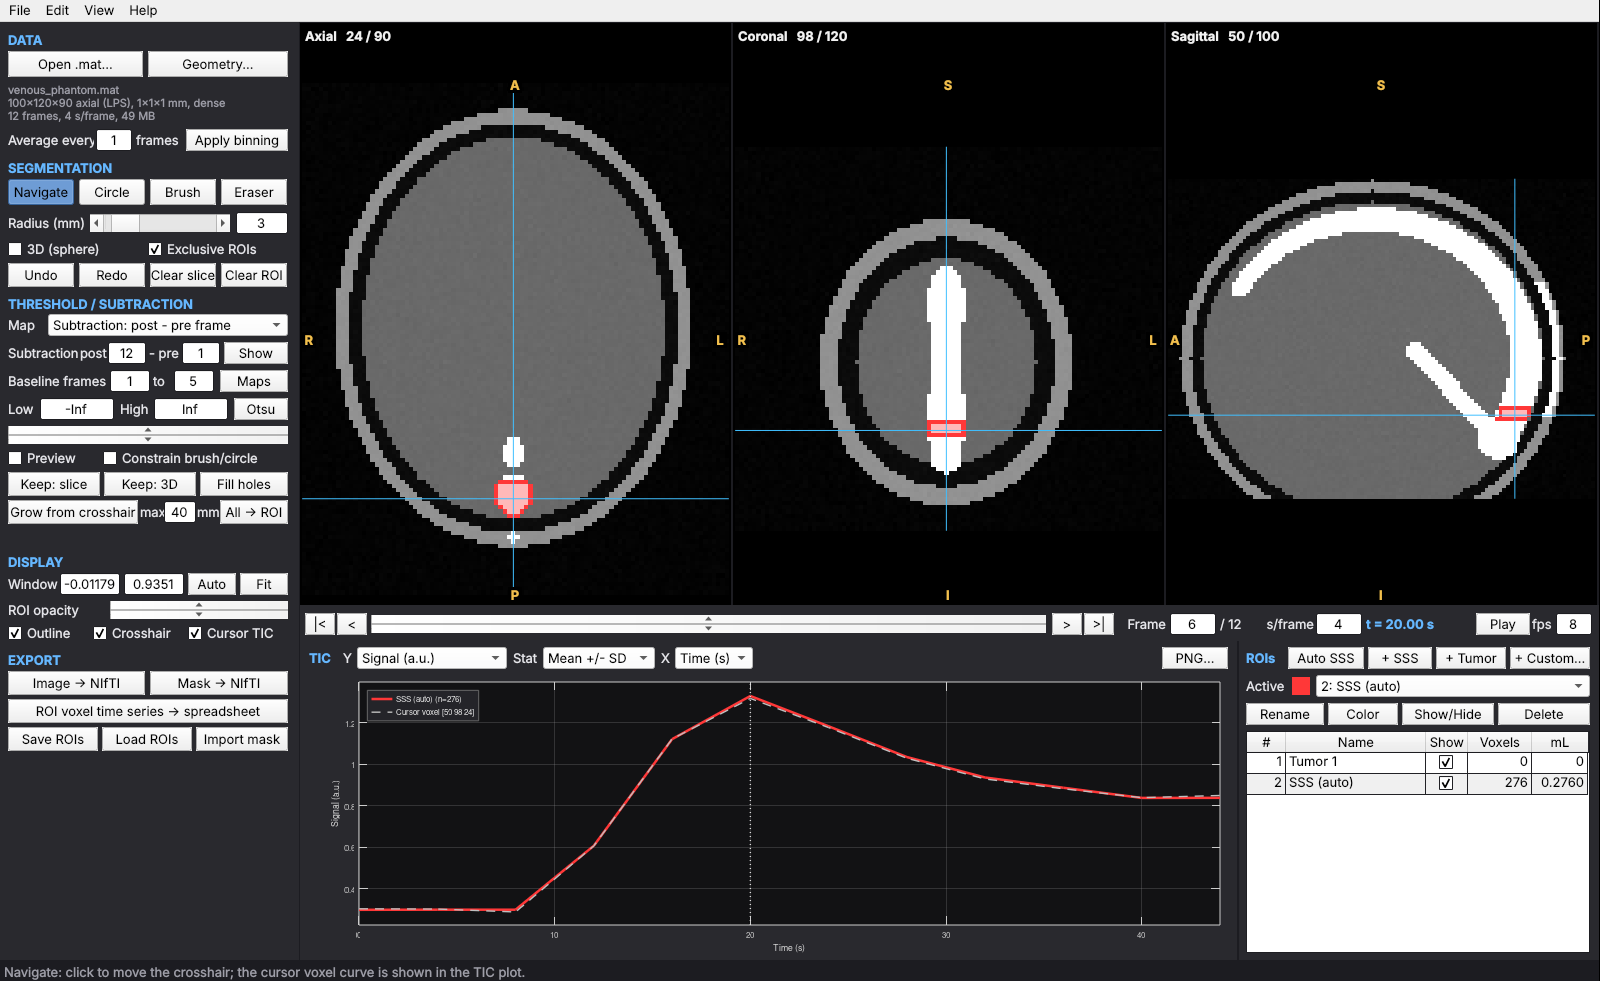
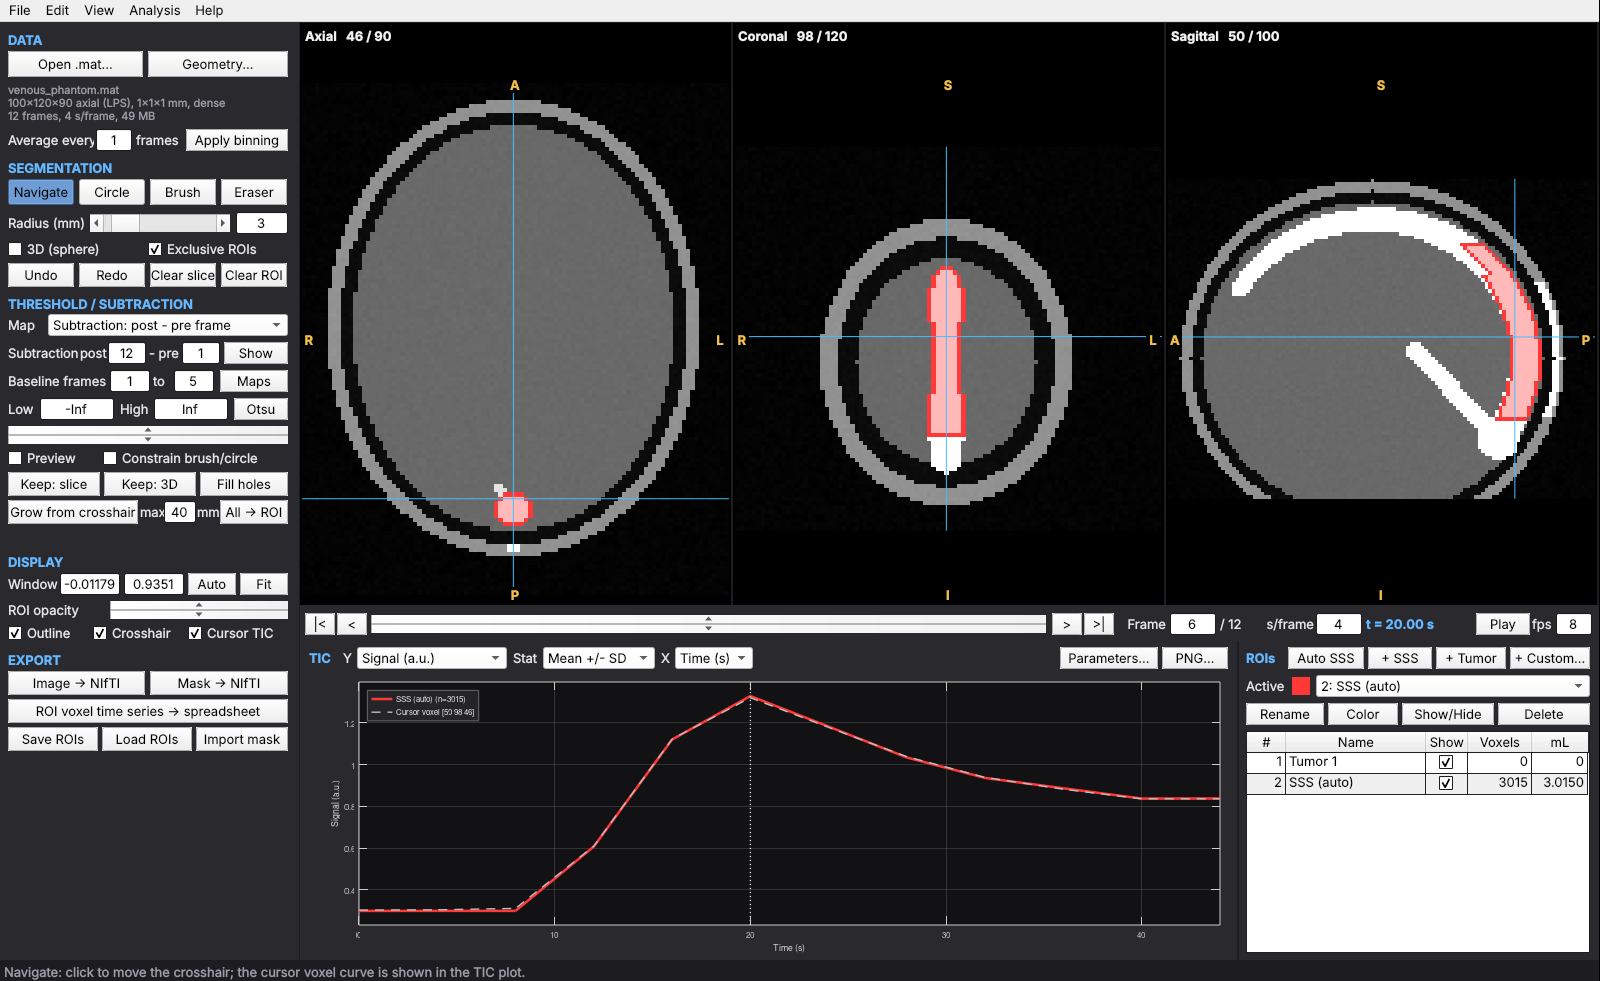
Auto SSS: extend the ROI superiorly along the sinus toward the vertex
- ROI now runs from 2 mm below the thickest posterior SSS slice above the
  torcula up to 50 mm above it (options InferiorMM, SuperiorMM), following
  the sinus slice by slice
- Stops early where the cross-section is lost, too wide, not continuous with
  the slice below, or where the sinus turns forward over the vertex (MaxSlope)
- SlabMM still gives the former 5 mm slab; info reports ThickestSlice,
  ExtentMM and StopReason
- Tests, README, help text and Auto SSS screenshot updated

Claude-Session: https://claude.ai/code/session_014mboSvqdSkQJg9ohrRRJS1

diff --git a/graspilot_detect_sss.m b/graspilot_detect_sss.m
@@ -4,9 +4,10 @@ function [lin, info] = graspilot_detect_sss(D, varargin)
 %   [lin, info] = graspilot_detect_sss(D)
 %   [lin, info] = graspilot_detect_sss(D, 'Name', Value, ...)
 %
-%   Returns canonical linear indices of an ROI in the thickest part of the
-%   posterior superior sagittal sinus (SSS) above the torcula (confluence of
-%   sinuses), excluding the transverse sinuses and the straight sinus.
+%   Returns canonical linear indices of an ROI in the posterior superior
+%   sagittal sinus (SSS): from its thickest part above the torcula
+%   (confluence of sinuses) up along the sinus toward the vertex, excluding
+%   the transverse sinuses and the straight sinus.
 %   Orientation must be correct (canonical axes R->L, A->P, I->S; see
 %   GRASPilotData.setAxisCodes): the method relies on "posterior", "midline"
 %   and "superior".
@@ -28,30 +29,47 @@ function [lin, info] = graspilot_detect_sss(D, varargin)
 %   5. candidate slices GapMM .. GapMM+SearchMM above the torcula where
 %      the structure is no wider than MaxWidthMM (midline SSS only);
 %      thickest = largest posterior cross-section (3-slice average)
-%   6. ROI = SlabMM of slices centred on the thickest slice; in each slice
-%      the cross-section voxels enhancing >= Core x their maximum
-%      (excludes partial-volume edge voxels)
+%   6. ROI slices: from InferiorMM below the thickest slice (not closer to
+%      the torcula than GapMM) up to SuperiorMM above it, following the
+%      sinus slice by slice. The extension stops early where the sinus
+%      cross-section is missing or wider than MaxWidthMM, no longer overlaps
+%      the cross-section of the slice below, or where the sinus turns
+%      forward over the vertex (its posterior edge moving anteriorly by more
+%      than MaxSlope mm per mm of height over >= 4 mm: the axial cut
+%      becomes oblique and partial-volumed)
+%   7. in each ROI slice the cross-section voxels enhancing >= Core x their
+%      maximum (excludes partial-volume edge voxels)
 %
 %   Options (defaults): 'BaseFrames' (1:min(5,T)), 'MidlineMM' (10),
 %   'LateralMM' (50), 'RelThr' (0.35), 'PosteriorMM' (12),
 %   'TorculaWidthMM' (30), 'MaxWidthMM' (20), 'GapMM' (5), 'SearchMM' (35),
-%   'SlabMM' (5), 'Core' (0.5), 'Seeds' (6), 'Progress' ([])
+%   'InferiorMM' (2), 'SuperiorMM' (50), 'MaxSlope' (1), 'Core' (0.5),
+%   'Seeds' (6), 'Progress' ([]). 'SlabMM' (empty) gives the former ROI:
+%   SlabMM of slices centred on the thickest slice (sets InferiorMM and
+%   SuperiorMM to SlabMM/2).
 %
-%   info: Seed, TorculaSlice (NaN if not found), Slices, NVoxels, VolumeML,
-%   Centroid [i j k], MeanPeakEnh, Width and Area per slice, Message.
+%   info: Seed, TorculaSlice (NaN if not found), ThickestSlice, Slices,
+%   ExtentMM, StopReason, NVoxels, VolumeML, Centroid [i j k], MeanPeakEnh,
+%   Width and Area per slice, Message.
 
 p = struct('BaseFrames', [], 'MidlineMM', 10, 'LateralMM', 50, 'RelThr', 0.35, ...
     'PosteriorMM', 12, 'TorculaWidthMM', 30, 'MaxWidthMM', 20, 'GapMM', 5, 'SearchMM', 35, ...
-    'SlabMM', 5, 'Core', 0.5, 'Seeds', 6, 'Progress', []);
+    'InferiorMM', 2, 'SuperiorMM', 50, 'MaxSlope', 1, 'SlabMM', [], 'Core', 0.5, 'Seeds', 6, ...
+    'Progress', []);
 for i = 1:2:numel(varargin)
     fn = fieldnames(p);
     m = find(strcmpi(fn, varargin{i}), 1);
     if isempty(m), error('graspilot_detect_sss:opt', 'Unknown option %s.', varargin{i}); end
     p.(fn{m}) = varargin{i + 1};
 end
+if ~isempty(p.SlabMM)
+    p.InferiorMM = p.SlabMM / 2;
+    p.SuperiorMM = p.SlabMM / 2;
+end
 lin = zeros(0, 1);
-info = struct('Seed', [], 'TorculaSlice', NaN, 'Slices', [], 'NVoxels', 0, 'VolumeML', 0, ...
-    'Centroid', [], 'MeanPeakEnh', NaN, 'Width', [], 'Area', [], 'Message', '');
+info = struct('Seed', [], 'TorculaSlice', NaN, 'ThickestSlice', NaN, 'Slices', [], 'ExtentMM', 0, ...
+    'StopReason', '', 'NVoxels', 0, 'VolumeML', 0, 'Centroid', [], 'MeanPeakEnh', NaN, 'Width', [], ...
+    'Area', [], 'Message', '');
 
 n = D.canonSize();
 vox = D.canonVox();
@@ -109,6 +127,7 @@ info.Seed = bestSeed;
 
 % 3. per-slice width and posterior cross-section
 W = zeros(1, n(3)); A = zeros(1, n(3));
+Wb = zeros(1, n(3)); Yp = NaN(1, n(3));      % cross-section width (mm), posterior edge (voxel)
 blob = cell(1, n(3));
 pr = round(p.PosteriorMM / vox(2));
 for k = 1:n(3)
@@ -135,6 +154,8 @@ for k = 1:n(3)
     end
     blob{k} = find(R2);
     A(k) = numel(blob{k}) * vox(1) * vox(2);
+    Wb(k) = wd * vox(1);
+    Yp(k) = yp;
 end
 info.Width = W;
 info.Area = A;
@@ -165,11 +186,41 @@ As(ok) = A(ok);
 Asm = conv(As, ones(1, 3) / 3, 'same');
 [~, i] = max(Asm(ok));
 kb = ok(i);
-h = max(0, round((p.SlabMM / vox(3) - 1) / 2));
-ks = ok(ok >= kb - h & ok <= kb + h);
 
-% 6. core voxels of the cross-section in those slices
+info.ThickestSlice = kb;
+kl = max(k0, kb - round(p.InferiorMM / vox(3)));
+ks = kl:kb;
+ks = ks(ismember(ks, ok));
+
+% 6. follow the sinus superiorly toward the vertex
 np = n(1) * n(2);
+kw = kb + floor(p.SuperiorMM / vox(3) + 1e-9);   % wanted top slice
+kt = min(n(3), kw);
+span = max(3, ceil(4 / vox(3)));                 % slices over which the forward turn is measured
+why = '';
+for k = kb + 1:kt
+    if A(k) == 0
+        why = 'sinus not found higher up'; break
+    end
+    if Wb(k) > p.MaxWidthMM
+        why = 'sinus cross-section wider than MaxWidthMM'; break
+    end
+    if ~overlaps(blob{k}, blob{k - 1}, [n(1) n(2)])
+        why = 'cross-section not continuous with the slice below'; break
+    end
+    j = k - span;
+    if j >= ks(1) && (Yp(j) - Yp(k)) * vox(2) / (span * vox(3)) > p.MaxSlope
+        why = 'sinus turning forward over the vertex'; break
+    end
+    ks(end + 1) = k; %#ok<AGROW>
+end
+if isempty(why) && kw > kb
+    if kt < kw, why = 'top of the imaged volume';
+    else, why = sprintf('%g mm above the thickest slice (SuperiorMM)', p.SuperiorMM); end
+end
+info.StopReason = why;
+
+% 7. core voxels of the cross-section in those slices
 for k = ks
     l2 = blob{k};
     e = E(l2 + (k - 1) * np);
@@ -183,12 +234,24 @@ for k = ks
 end
 [ii, jj, kk] = ind2sub(n, lin);
 info.Slices = ks;
+info.ExtentMM = numel(ks) * vox(3);
 info.NVoxels = numel(lin);
 info.VolumeML = numel(lin) * prod(vox) / 1000;
 info.Centroid = [mean(ii) mean(jj) mean(kk)];
 info.MeanPeakEnh = mean(E(lin));
-info.Message = sprintf(['SSS ROI: %d voxels (%.3f mL) on slices %d-%d, thickest at slice %d ' ...
-    '(%.0f mm2). %s'], numel(lin), info.VolumeML, min(ks), max(ks), kb, A(kb), tmsg);
+info.Message = sprintf(['SSS ROI: %d voxels (%.3f mL) on slices %d-%d (%.0f mm), from the thickest ' ...
+    'slice %d (%.0f mm2) up toward the vertex. %s'], numel(lin), info.VolumeML, min(ks), max(ks), ...
+    info.ExtentMM, kb, A(kb), tmsg);
+if ~isempty(why), info.Message = sprintf('%s Upper end: %s.', info.Message, why); end
+end
+
+function tf = overlaps(a, b, n2)
+% 2D cross-sections (linear indices in a slice) touch or overlap
+if isempty(a) || isempty(b), tf = false; return; end
+M = false(n2);
+M(b) = true;
+M = M | circshift(M, [1 0]) | circshift(M, [-1 0]) | circshift(M, [0 1]) | circshift(M, [0 -1]);
+tf = any(M(a));
 end
 
 function th = otsu(vals)

diff --git a/GRASPilot.m b/GRASPilot.m
@@ -1405,8 +1405,8 @@ classdef GRASPilot < handle
         end
 
         function r = autoSSS(obj)
-            % detect the posterior superior sagittal sinus above the torcula
-            % and put it in the ROI "SSS (auto)" (replaced on each run)
+            % detect the posterior superior sagittal sinus from above the torcula
+            % toward the vertex and put it in the ROI "SSS (auto)" (replaced on each run)
             r = 0;
             if ~obj.requireData(), return; end
             wb = obj.wbOpen('Detecting the superior sagittal sinus...');
@@ -2036,8 +2036,8 @@ classdef GRASPilot < handle
             P = obj.H.roiPanel; C = obj.Col;
             obj.ctl(P, 8, 7, 40, 18, 'text', 'ROIs', 'FontWeight', 'bold', 'ForegroundColor', C.accent);
             obj.ctl(P, 50, 5, 76, 22, 'pushbutton', 'Auto SSS', ...
-                'TooltipString', ['Detect the posterior superior sagittal sinus above the torcula ' ...
-                '(excludes transverse and straight sinuses) and place the ROI "SSS (auto)"'], ...
+                'TooltipString', ['Detect the posterior superior sagittal sinus from just above the torcula ' ...
+                'up toward the vertex (excludes transverse and straight sinuses) and place the ROI "SSS (auto)"'], ...
                 'Callback', @(s, e) obj.autoSSS());
             obj.ctl(P, 130, 5, 64, 22, 'pushbutton', '+ SSS', ...
                 'TooltipString', 'Add an empty superior sagittal sinus control ROI to draw by hand', ...
@@ -3607,7 +3607,8 @@ classdef GRASPilot < handle
                 '  presets (LPS = scanner order of the GRASP recon), Rotate 90 / Flip buttons'
                 ''
                 'SSS CONTROL ROI'
-                '  Auto SSS: posterior superior sagittal sinus just above the torcula'
+                '  Auto SSS: posterior superior sagittal sinus from just above the torcula'
+                '  up toward the vertex (up to 50 mm above its thickest part)'
                 '  (transverse and straight sinuses excluded); check and edit as needed'
                 ''
                 'SEMI-QUANTITATIVE PARAMETERS (Analysis menu or Parameters... button)'

diff --git a/tests/graspilot_selftest.m b/tests/graspilot_selftest.m
@@ -146,9 +146,21 @@ M = false(np); M(linS) = true;
 [~, ~, kk] = ind2sub(np, linS);
 ok = numel(linS) > 50 && all(tr.SSS(linS)) && ~any(M(:) & (tr.TS(:) | tr.SS(:) | tr.SV(:) | tr.AR(:)));
 nfail = nfail + check('SSS ROI only in SSS (not TS/straight/scalp/artery)', ok, numel(linS));
-ok = abs(infoS.TorculaSlice - tr.TorculaZ) <= 2 && min(kk) >= infoS.TorculaSlice + 5 && max(kk) <= tr.TorculaZ + 30 ...
-    && abs(infoS.Centroid(1) - 50) < 2;
-nfail = nfail + check('SSS ROI just above torcula, midline', ok, infoS.TorculaSlice);
+ok = abs(infoS.TorculaSlice - tr.TorculaZ) <= 2 && min(kk) >= infoS.TorculaSlice + 5 && min(kk) <= tr.TorculaZ + 10 ...
+    && abs(infoS.Centroid(1) - 50) < 2 && isequal(unique(kk)', min(kk):max(kk));
+nfail = nfail + check('SSS ROI starts just above torcula, midline, contiguous', ok, infoS.TorculaSlice);
+% extends up the posterior SSS toward the vertex: 50 mm above the thickest slice, or until the
+% sinus turns forward (phantom SSS: posterior edge moves forward > 1 mm per mm above z ~ 70)
+ok = max(kk) >= infoS.ThickestSlice + 40 && max(kk) <= 75 && numel(linS) > 2000 && ...
+    ~isempty(strfind(infoS.StopReason, 'forward'));
+nfail = nfail + check('SSS ROI extends superiorly toward the vertex', ok, max(kk));
+[linV, infoV] = graspilot_detect_sss(Dp, 'SuperiorMM', 20);
+[~, ~, kv] = ind2sub(np, linV);
+[linB, infoB] = graspilot_detect_sss(Dp, 'SlabMM', 5);
+[~, ~, kB] = ind2sub(np, linB);
+ok = max(kv) == infoV.ThickestSlice + 20 && all(tr.SSS(linV)) && max(kB) - min(kB) <= 4 && ...
+    all(ismember(linB, linS)) && ~isempty(strfind(infoV.StopReason, 'SuperiorMM'));
+nfail = nfail + check('SSS ROI extent options (SuperiorMM, SlabMM)', ok, max(kv));
 [Dp2, tr2] = graspilot_sss_phantom(25);
 [lin2, info2] = graspilot_detect_sss(Dp2);
 ok = numel(lin2) > 50 && all(tr2.SSS(lin2)) && isnan(info2.TorculaSlice);

diff --git a/README.md b/README.md
@@ -11,7 +11,7 @@ stored as MATLAB `.mat` files (deep learning subspace recon: `vk_all` + `basis_a
 
 ![Subtraction map (last - first frame) with the enhancing rim grown from the crosshair](docs/screenshot_subtraction.png)
 
-![Auto SSS: ROI in the posterior superior sagittal sinus just above the torcula](docs/screenshot_sss.png)
+![Auto SSS: ROI along the posterior superior sagittal sinus above the torcula](docs/screenshot_sss.png)
 
 ![Wash-in slope normalized to the SSS as a colour map](docs/screenshot_params.png)
 
@@ -21,8 +21,9 @@ stored as MATLAB `.mat` files (deep learning subspace recon: `vk_all` + `basis_a
 Top: frame view after 2x temporal binning with the SSS control and the tumor ROI. Middle:
 subtraction map (frame 60 - frame 1), threshold preview in green and the enhancing rim grown
 from the crosshair (necrotic core excluded). Bottom: Auto SSS on a venous phantom - the ROI
-(red) sits in the posterior SSS just above the torcula; the straight sinus (anterior to it on
-the axial view), the transverse sinuses and a scalp vein are excluded. Last two: peak
+(red) follows the posterior SSS from just above the torcula toward the vertex (sagittal
+view); the straight sinus (anterior to it on the axial view), the transverse sinuses and a
+scalp vein are excluded. Last two: peak
 wash-in slope / SSS as a jet colour map with the ROI outlines (analysis limited to the first
 100 s, orange line on the curves), and the Parameters window with the tumor ROI statistics.*
 
@@ -131,8 +132,9 @@ Ctrl+Z / Ctrl+Y = undo / redo. Help > Mouse and keyboard lists everything.
 ## Automatic superior sagittal sinus ROI (Auto SSS)
 
 **Auto SSS** (ROI panel, or Edit > Detect superior sagittal sinus) places the control ROI
-`SSS (auto)` in the thickest part of the posterior superior sagittal sinus just above the
-torcula, excluding the transverse sinuses and the straight sinus. Requires correct
+`SSS (auto)` in the posterior superior sagittal sinus, from its thickest part just above the
+torcula up along the sinus toward the vertex, excluding the transverse sinuses and the
+straight sinus. Requires correct
 orientation (LPS etc., see Orientation).
 
 1. Peak enhancement map (maximum over time minus baseline) and a head mask (Otsu on the
@@ -147,15 +149,20 @@ orientation (LPS etc., see Orientation).
    (midline SSS only), the SSS cross-section is its most posterior part against the
    occipital inner table, no deeper front-to-back than it is wide (excludes the straight
    sinus, which joins from anterior). The thickest cross-section (3-slice average) is chosen.
-5. ROI: 5 mm of slices centred there; in each, the cross-section voxels enhancing >= 50% of
-   their maximum (partial-volume edges excluded).
+5. ROI: from 2 mm below the thickest slice up to 50 mm above it, following the sinus slice
+   by slice. It stops earlier where the sinus cross-section is lost, wider than 20 mm or
+   not continuous with the slice below, or where the sinus turns forward over the vertex
+   (posterior edge moving forward by more than 1 mm per mm of height: axial cuts become
+   oblique and partial-volumed). In each slice, the cross-section voxels enhancing >= 50%
+   of their maximum (partial-volume edges excluded).
 
 The crosshair moves to the ROI and the status bar reports the torcula slice, ROI slices,
-voxels and volume. Running it again replaces `SSS (auto)`; Undo removes it; the eraser and
+extent, voxels, volume and why the ROI ends where it does. Running it again replaces `SSS (auto)`; Undo removes it; the eraser and
 brush can edit it. If the transverse sinuses are not in the slab, the lowest posterior SSS
 segment is used and the status bar says so. Always check the ROI on the three views.
 Scripting: `[lin, info] = graspilot_detect_sss(D)` (options for every threshold in `help
-graspilot_detect_sss`).
+graspilot_detect_sss`; e.g. `'SuperiorMM', 30` for a shorter ROI, `'SlabMM', 5` for the former
+5 mm slab at the thickest slice).
 
 ## Enhancing tumor from the subtraction map
 
